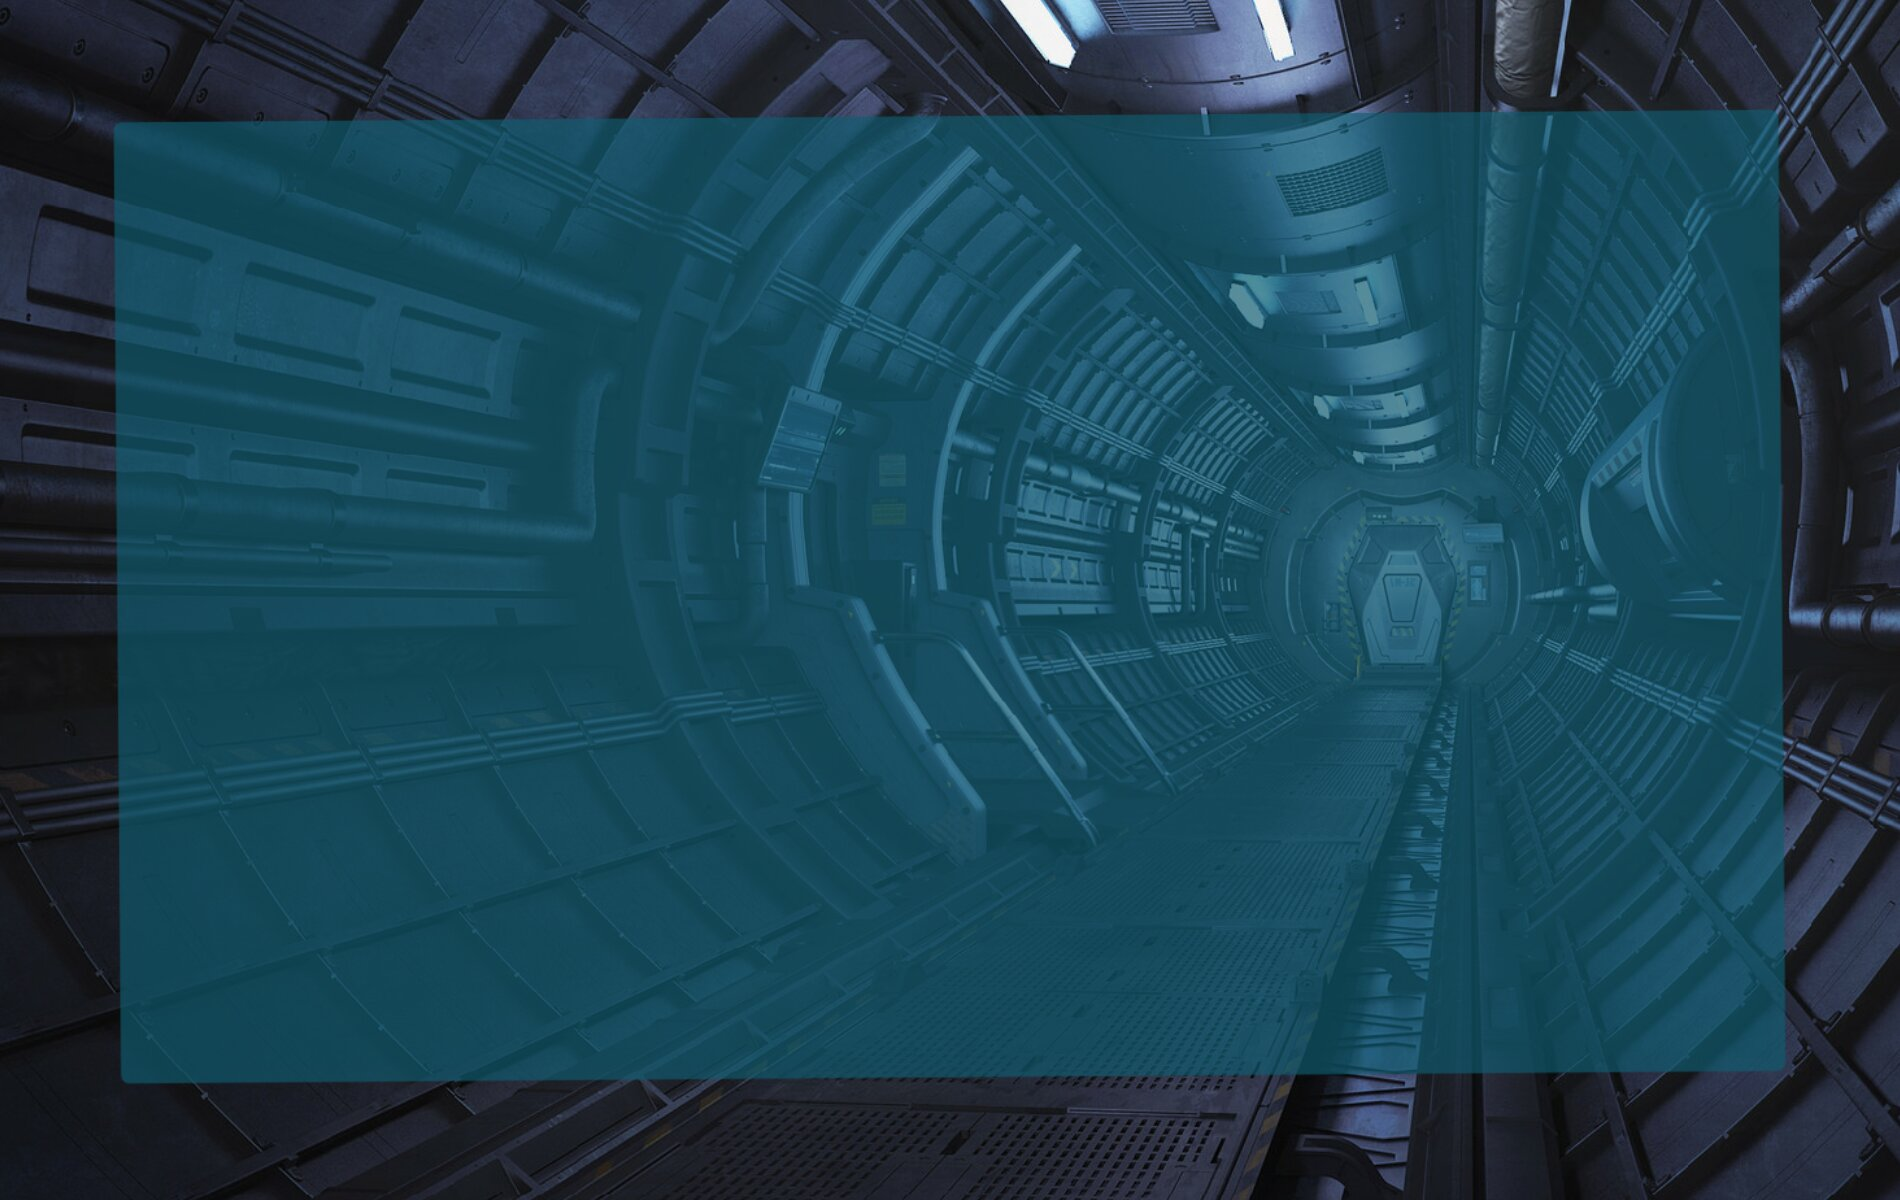
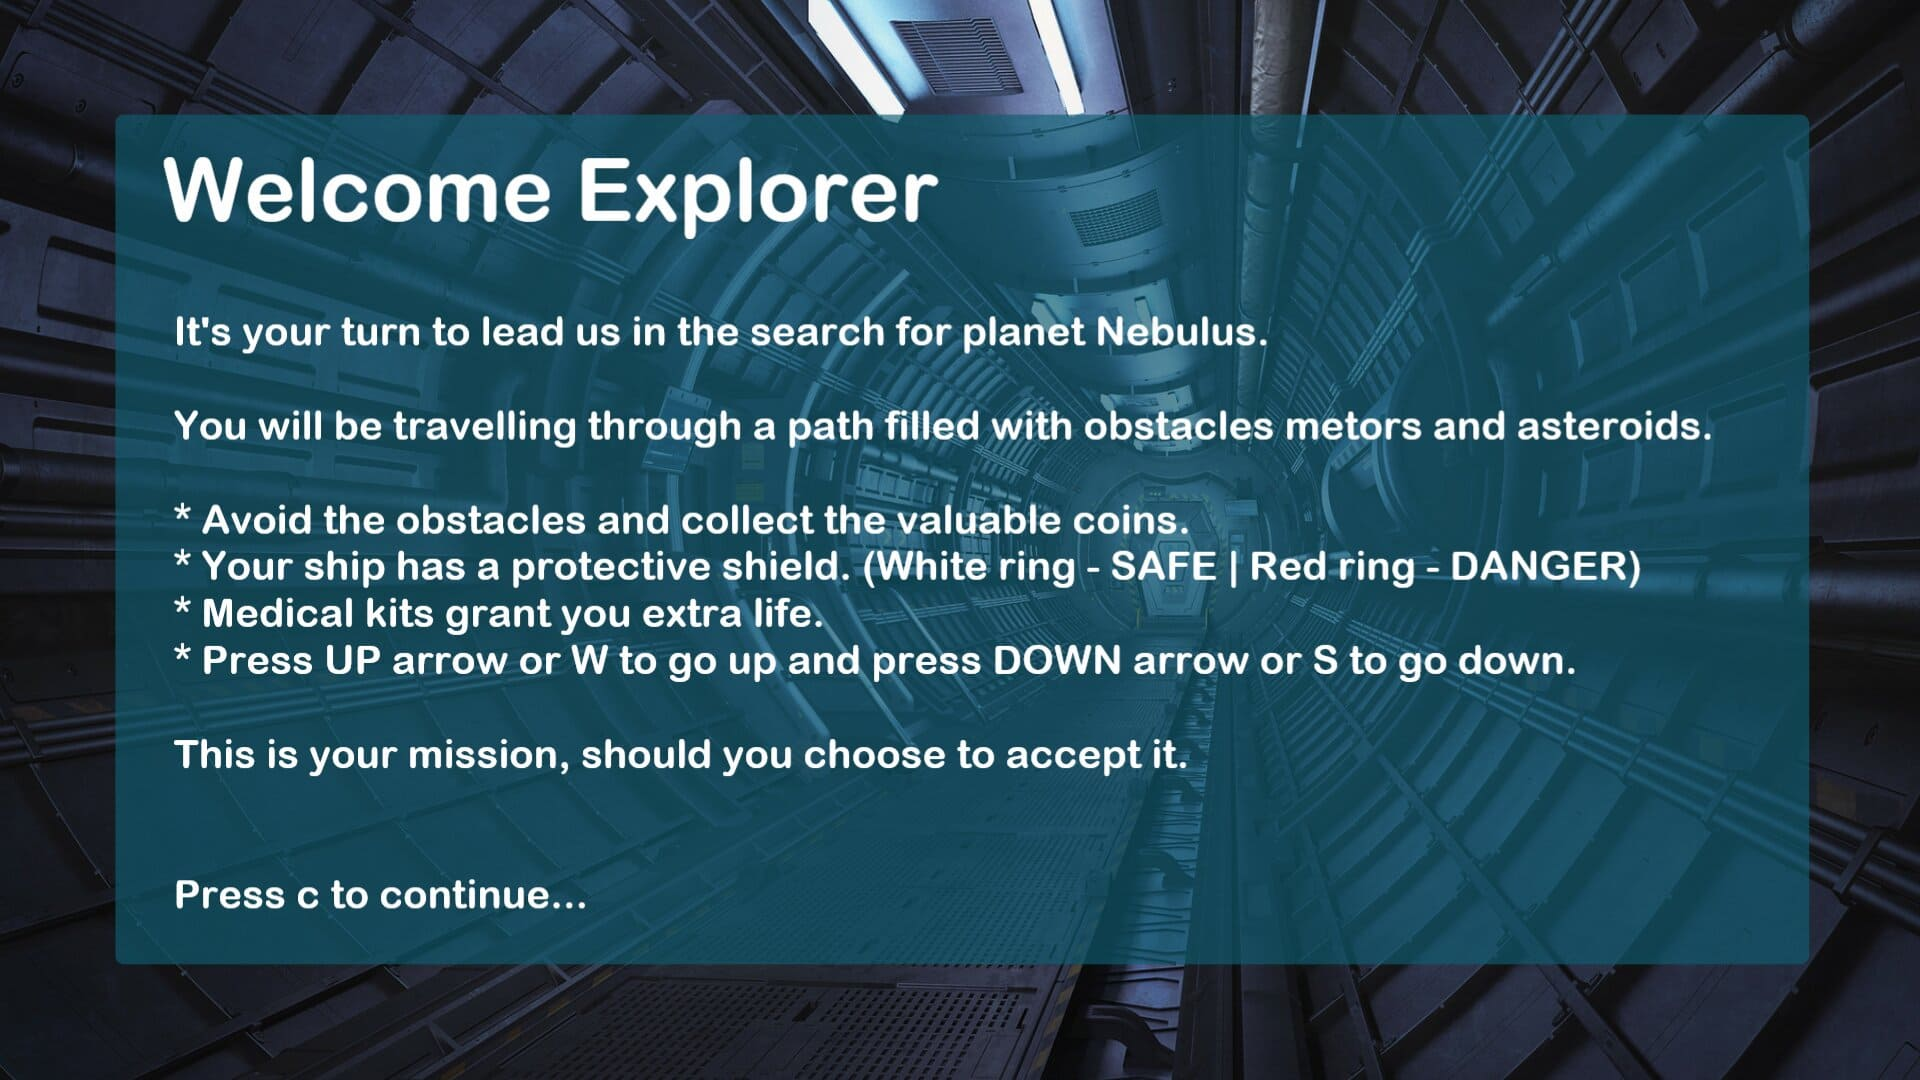
modified game.js and added bg images

diff --git a/script/game.js b/script/game.js
@@ -61,6 +61,11 @@ const instBG = new Image();
 instBG.src = 'gameAssets/instructionsBG.jpg';
 instBG.position = { x: 0, y: 0};
 
+// add background image for choose ship screen
+const chooseShipBG = new Image();
+chooseShipBG.src = 'gameAssets/chooseShipBG.jpg';
+chooseShipBG.position = { x: 0, y: 0};
+
 // add background image
 const backgroundImage = new Image();
 backgroundImage.src = 'gameAssets/bg.jpg';
@@ -485,51 +490,51 @@ let drawInstructionsWindow = () => {
   context.clearRect(0, 0, canvas.width, canvas.height);
   context.drawImage(instBG, instBG.position.x, instBG.position.y, canvas.width, canvas.height);
 
-  // add heading
-  context.font = "bold 90px Helvetica, Arial, sans-serif";
-  context.fillStyle = "white";
-  context.fillText("Welcome Explorer-202,", 150, 190);
+  // // add heading
+  // context.font = "bold 90px Helvetica, Arial, sans-serif";
+  // context.fillStyle = "white";
+  // context.fillText("Welcome Explorer-202,", 150, 190);
 
-  context.font = "bold 40px Helvetica, Arial, sans-serif";
-  let x = 150;
-  let y = 300;
+  // context.font = "bold 40px Helvetica, Arial, sans-serif";
+  // let x = 150;
+  // let y = 300;
 
-  // add the instructions
-  context.fillText("It's your turn to lead us in the search for planet Nebulus.", x, y); 
-  context.fillText("You will be travelling through a path filled with obstacles metors and asteroids.", x, y + 50); 
-  context.fillText("  Avoid the obstacles and collect the valuable coins.", x, y + 150);
-  context.fillText("  Your ship has a protective shield. (White ring - SAFE | Red ring - DANGER)", x, y + 200); 
-  context.fillText("  Medical kits grant you extra life.", x, y + 250);
-  context.fillText("  Press UP arrow or W to go up and press DOWN arrow or S to go down.", x, y + 300);
-  context.fillText("This is your mission, should you choose to accept it.", x, y + 400);
-  context.fillText("Press c to continue...", x, y + 480);
+  // // add the instructions
+  // context.fillText("It's your turn to lead us in the search for planet Nebulus.", x, y); 
+  // context.fillText("You will be travelling through a path filled with obstacles metors and asteroids.", x, y + 50); 
+  // context.fillText("  Avoid the obstacles and collect the valuable coins.", x, y + 150);
+  // context.fillText("  Your ship has a protective shield. (White ring - SAFE | Red ring - DANGER)", x, y + 200); 
+  // context.fillText("  Medical kits grant you extra life.", x, y + 250);
+  // context.fillText("  Press UP arrow or W to go up and press DOWN arrow or S to go down.", x, y + 300);
+  // context.fillText("This is your mission, should you choose to accept it.", x, y + 400);
+  // context.fillText("Press c to continue...", x, y + 480);
 }
 
 // function to draw the screen that allows the user to choose the space ships
 let drawChooseShipWindow = () => {
   context.clearRect(0, 0, canvas.width, canvas.height);
 
-  context.drawImage(instBG, instBG.position.x, instBG.position.y, canvas.width, canvas.height);
+  context.drawImage(chooseShipBG, instBG.position.x, instBG.position.y, canvas.width, canvas.height);
   
-  // add heading
-  context.font = "bold 70px Helvetica, Arial, sans-serif";
-  context.fillStyle = "white";
-  context.fillText("Choose your ship", 140, 150);
+  // // add heading
+  // context.font = "bold 70px Helvetica, Arial, sans-serif";
+  // context.fillStyle = "white";
+  // context.fillText("Choose your ship", 140, 150);
 
-  // add images of ships that the user can choose from
-  let shipImg = new Image();
-  shipImg.src = 'gameAssets/ship1.png';
-  shipImg.position = { x: 300, y: canvas.height/2 - 260};
-  context.drawImage(shipImg, shipImg.position.x, shipImg.position.y, 500, 500);
-  context.font = "bold 30px Helvetica, Arial, sans-serif";
-  context.fillText("Press 1 to choose Ship-1 and 2 to choose Ship-2", 140, 200);
-  context.fillText("Press 1", 500, 750);
+  // // add images of ships that the user can choose from
+  // let shipImg = new Image();
+  // shipImg.src = 'gameAssets/ship1.png';
+  // shipImg.position = { x: 300, y: canvas.height/2 - 260};
+  // context.drawImage(shipImg, shipImg.position.x, shipImg.position.y, 500, 500);
+  // context.font = "bold 30px Helvetica, Arial, sans-serif";
+  // context.fillText("Press 1 to choose Ship-1 and 2 to choose Ship-2", 140, 200);
+  // context.fillText("Press 1", 500, 750);
 
-  let shipImg2 = new Image();
-  shipImg2.src = 'gameAssets/ship2.png';
-  shipImg2.position = { x: 1100, y: canvas.height/2 - 230};
-  context.drawImage(shipImg2, shipImg2.position.x, shipImg2.position.y, 500, 500);
-  context.fillText("Press 2", 1200, 750);
+  // let shipImg2 = new Image();
+  // shipImg2.src = 'gameAssets/ship2.png';
+  // shipImg2.position = { x: 1100, y: canvas.height/2 - 230};
+  // context.drawImage(shipImg2, shipImg2.position.x, shipImg2.position.y, 500, 500);
+  // context.fillText("Press 2", 1200, 750);
 }
 
 
